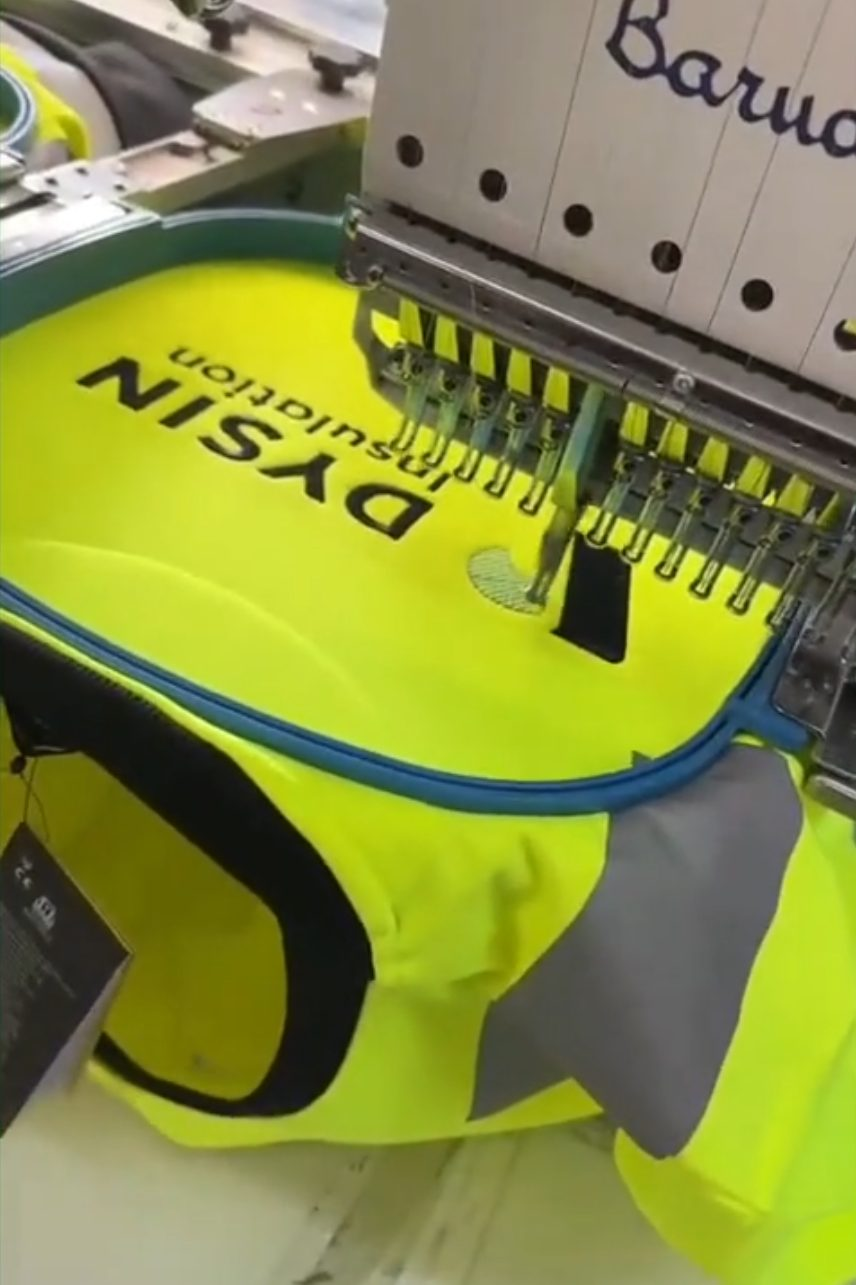
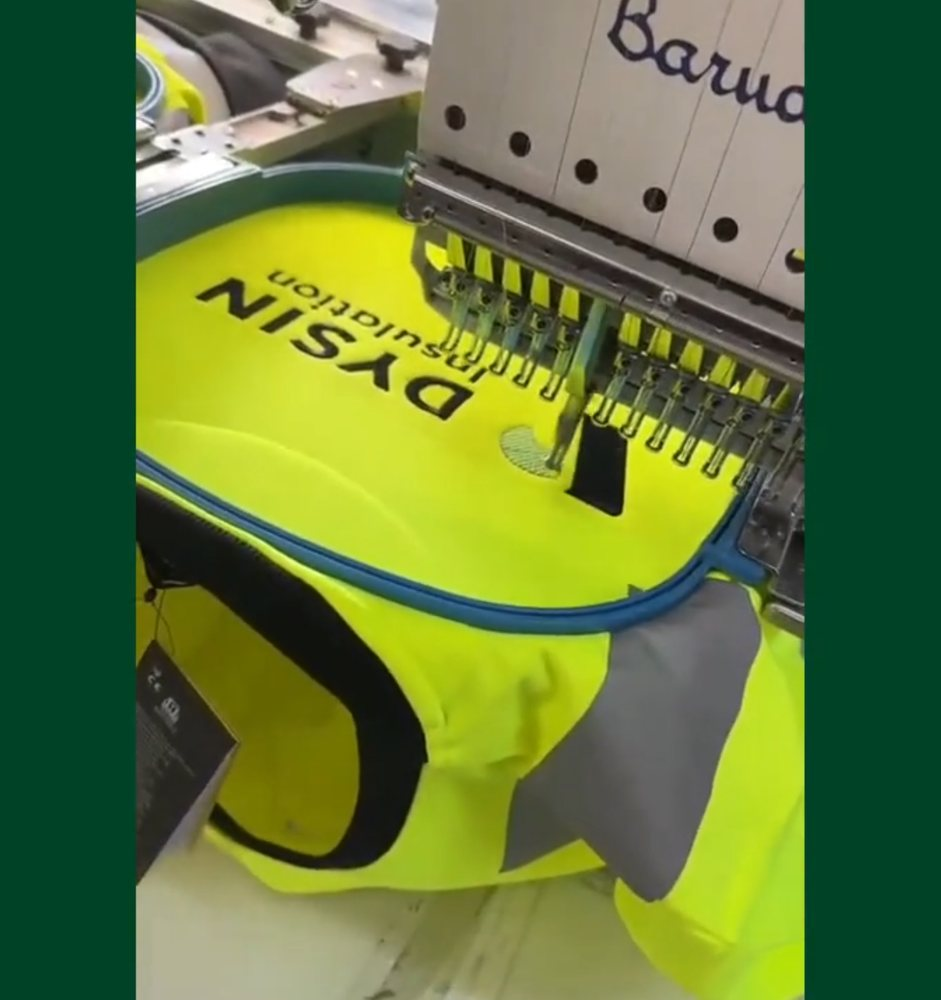
DRAFT: restore original Derby photos (with bars), uniform 4:5 contain grid

diff --git a/embroidery-derby/index.html b/embroidery-derby/index.html
@@ -325,13 +325,10 @@
     .breadcrumb { font-size:12px; color:var(--muted); margin-bottom:14px; }
     .breadcrumb a { color:var(--brg); }
     .case { padding: 56px 0; border-top:1px solid var(--border); }
-    .case-grid { display:flex; gap:14px; margin-top:22px; max-width:960px; }
-    .case-grid figure { margin:0; min-width:0; overflow:hidden; border-radius:10px; border:1px solid var(--brg-border); background:var(--brg-light); }
-    .case-grid img { width:100%; height:100%; object-fit:cover; }
-    @media (max-width: 640px) {
-      .case-grid { flex-direction:column; }
-      .case-grid figure { flex:none !important; width:100%; max-height:560px; }
-    }
+    .case-grid { display:grid; grid-template-columns:repeat(auto-fill, minmax(240px, 340px)); gap:14px; margin-top:22px; }
+    .case-grid figure { margin:0; aspect-ratio:4/5; border-radius:10px; overflow:hidden; background:#004226; border:1px solid var(--brg-border); }
+    .case-grid img { width:100%; height:100%; object-fit:contain; }
+    @media (max-width: 560px) { .case-grid { grid-template-columns:1fr 1fr; gap:10px; } }
     .case a.ext { color:var(--brg); font-weight:500; }
     .related { padding:56px 0; background:var(--off-white); }
     .footer-twr { display:flex; align-items:center; gap:8px; font-family:'Inter',sans-serif; font-size:12.5px; color:rgba(255,255,255,0.7); }
@@ -368,7 +365,7 @@
     <p class="eyebrow">Derby business</p>
     <h2 class="section-title" style="font-size:clamp(22px,3vw,30px);">Dysin Insulation Ltd: workwear and golf polos</h2>
     <p class="section-sub" style="max-width:720px;">Dysin's logo embroidered on their hi-vis workwear, plus golf polos for a company golf tournament. More on our <a href="../workwear/" style="color:var(--brg);font-weight:500;">workwear</a> page.</p>
-    <div class="case-grid" style="max-width:960px;"><figure style="flex:0.6661 1 0;aspect-ratio:856/1285;"><img src="../images/dysin-hi-vis-machine.jpg" alt="Dysin Insulation logo being embroidered on hi-vis workwear in Derby" width="856" height="1285" loading="lazy" style="object-position:center 45%;"></figure><figure style="flex:1.722 1 0;aspect-ratio:1400/813;"><img src="../images/dysin-golf-polos.jpg" alt="Embroidered golf polos for Dysin Insulation's golf tournament" width="1400" height="813" loading="lazy" style="object-position:center 45%;"></figure></div>
+    <div class="case-grid"><figure><img src="../images/dysin-hi-vis-machine.jpg" alt="Dysin Insulation logo being embroidered on hi-vis workwear in Derby" loading="lazy"></figure><figure><img src="../images/dysin-golf-polos.jpg" alt="Embroidered golf polos for Dysin Insulation's golf tournament" loading="lazy"></figure></div>
   </div>
 </section>
 <section class="case">
@@ -376,7 +373,7 @@
     <p class="eyebrow">Derby business</p>
     <h2 class="section-title" style="font-size:clamp(22px,3vw,30px);">Mend on the Move: gym equipment sweat pads</h2>
     <p class="section-sub" style="max-width:720px;">Mend on the Move repair and reupholster gym equipment. We embroidered their client's logo onto sweat pads for upholstered gym equipment. More on our <a href="../personalisation/" style="color:var(--brg);font-weight:500;">one-off and custom items</a> page.</p>
-    <div class="case-grid" style="max-width:960px;"><figure style="flex:0.5686 1 0;aspect-ratio:796/1400;"><img src="../images/mend-on-the-move-machine.jpg" alt="Logo being embroidered for Mend on the Move" width="796" height="1400" loading="lazy" style="object-position:center 45%;"></figure><figure style="flex:1.4941 1 0;aspect-ratio:1400/937;"><img src="../images/mend-on-the-move-logo.jpg" alt="Finished embroidered logo for Mend on the Move" width="1400" height="937" loading="lazy" style="object-position:center 45%;"></figure><figure style="flex:0.7539 1 0;aspect-ratio:585/776;"><img src="../images/mend-on-the-move-gym-pad.jpg" alt="Embroidered sweat pad on gym equipment" width="585" height="776" loading="lazy" style="object-position:center 45%;"></figure></div>
+    <div class="case-grid"><figure><img src="../images/mend-on-the-move-machine.jpg" alt="Logo being embroidered for Mend on the Move" loading="lazy"></figure><figure><img src="../images/mend-on-the-move-logo.jpg" alt="Finished embroidered logo for Mend on the Move" loading="lazy"></figure><figure><img src="../images/mend-on-the-move-gym-pad.jpg" alt="Embroidered sweat pad on gym equipment" loading="lazy"></figure></div>
   </div>
 </section>
 <section class="case">
@@ -384,7 +381,7 @@
     <p class="eyebrow">Derby business</p>
     <h2 class="section-title" style="font-size:clamp(22px,3vw,30px);">Moda Interiors: management team polos</h2>
     <p class="section-sub" style="max-width:720px;">Polo shirts embroidered for the Moda Interiors management team. More on our <a href="../workwear/" style="color:var(--brg);font-weight:500;">workwear</a> page.</p>
-    <div class="case-grid" style="max-width:657px;"><figure style="flex:0.5665 1 0;aspect-ratio:477/842;"><img src="../images/moda-interiors-machine.jpg" alt="Moda Interiors logo being embroidered" width="477" height="842" loading="lazy" style="object-position:center 45%;"></figure><figure style="flex:1.0418 1 0;aspect-ratio:1245/1195;"><img src="../images/moda-interiors-polo.jpg" alt="Embroidered polo shirt for Moda Interiors" width="1245" height="1195" loading="lazy" style="object-position:center 45%;"></figure></div>
+    <div class="case-grid"><figure><img src="../images/moda-interiors-machine.jpg" alt="Moda Interiors logo being embroidered" loading="lazy"></figure><figure><img src="../images/moda-interiors-polo.jpg" alt="Embroidered polo shirt for Moda Interiors" loading="lazy"></figure></div>
   </div>
 </section>
 <section class="coverage" id="areas">

diff --git a/index.html b/index.html
@@ -327,13 +327,10 @@
     .breadcrumb { font-size:12px; color:var(--muted); margin-bottom:14px; }
     .breadcrumb a { color:var(--brg); }
     .case { padding: 56px 0; border-top:1px solid var(--border); }
-    .case-grid { display:flex; gap:14px; margin-top:22px; max-width:960px; }
-    .case-grid figure { margin:0; min-width:0; overflow:hidden; border-radius:10px; border:1px solid var(--brg-border); background:var(--brg-light); }
-    .case-grid img { width:100%; height:100%; object-fit:cover; }
-    @media (max-width: 640px) {
-      .case-grid { flex-direction:column; }
-      .case-grid figure { flex:none !important; width:100%; max-height:560px; }
-    }
+    .case-grid { display:grid; grid-template-columns:repeat(auto-fill, minmax(240px, 340px)); gap:14px; margin-top:22px; }
+    .case-grid figure { margin:0; aspect-ratio:4/5; border-radius:10px; overflow:hidden; background:#004226; border:1px solid var(--brg-border); }
+    .case-grid img { width:100%; height:100%; object-fit:contain; }
+    @media (max-width: 560px) { .case-grid { grid-template-columns:1fr 1fr; gap:10px; } }
     .case a.ext { color:var(--brg); font-weight:500; }
     .related { padding:56px 0; background:var(--off-white); }
     .footer-twr { display:flex; align-items:center; gap:8px; font-family:'Inter',sans-serif; font-size:12.5px; color:rgba(255,255,255,0.7); }

diff --git a/personalisation/index.html b/personalisation/index.html
@@ -326,13 +326,10 @@
     .breadcrumb { font-size:12px; color:var(--muted); margin-bottom:14px; }
     .breadcrumb a { color:var(--brg); }
     .case { padding: 56px 0; border-top:1px solid var(--border); }
-    .case-grid { display:flex; gap:14px; margin-top:22px; max-width:960px; }
-    .case-grid figure { margin:0; min-width:0; overflow:hidden; border-radius:10px; border:1px solid var(--brg-border); background:var(--brg-light); }
-    .case-grid img { width:100%; height:100%; object-fit:cover; }
-    @media (max-width: 640px) {
-      .case-grid { flex-direction:column; }
-      .case-grid figure { flex:none !important; width:100%; max-height:560px; }
-    }
+    .case-grid { display:grid; grid-template-columns:repeat(auto-fill, minmax(240px, 340px)); gap:14px; margin-top:22px; }
+    .case-grid figure { margin:0; aspect-ratio:4/5; border-radius:10px; overflow:hidden; background:#004226; border:1px solid var(--brg-border); }
+    .case-grid img { width:100%; height:100%; object-fit:contain; }
+    @media (max-width: 560px) { .case-grid { grid-template-columns:1fr 1fr; gap:10px; } }
     .case a.ext { color:var(--brg); font-weight:500; }
     .related { padding:56px 0; background:var(--off-white); }
     .footer-twr { display:flex; align-items:center; gap:8px; font-family:'Inter',sans-serif; font-size:12.5px; color:rgba(255,255,255,0.7); }

diff --git a/schoolwear/index.html b/schoolwear/index.html
@@ -326,13 +326,10 @@
     .breadcrumb { font-size:12px; color:var(--muted); margin-bottom:14px; }
     .breadcrumb a { color:var(--brg); }
     .case { padding: 56px 0; border-top:1px solid var(--border); }
-    .case-grid { display:flex; gap:14px; margin-top:22px; max-width:960px; }
-    .case-grid figure { margin:0; min-width:0; overflow:hidden; border-radius:10px; border:1px solid var(--brg-border); background:var(--brg-light); }
-    .case-grid img { width:100%; height:100%; object-fit:cover; }
-    @media (max-width: 640px) {
-      .case-grid { flex-direction:column; }
-      .case-grid figure { flex:none !important; width:100%; max-height:560px; }
-    }
+    .case-grid { display:grid; grid-template-columns:repeat(auto-fill, minmax(240px, 340px)); gap:14px; margin-top:22px; }
+    .case-grid figure { margin:0; aspect-ratio:4/5; border-radius:10px; overflow:hidden; background:#004226; border:1px solid var(--brg-border); }
+    .case-grid img { width:100%; height:100%; object-fit:contain; }
+    @media (max-width: 560px) { .case-grid { grid-template-columns:1fr 1fr; gap:10px; } }
     .case a.ext { color:var(--brg); font-weight:500; }
     .related { padding:56px 0; background:var(--off-white); }
     .footer-twr { display:flex; align-items:center; gap:8px; font-family:'Inter',sans-serif; font-size:12.5px; color:rgba(255,255,255,0.7); }

diff --git a/sports-teamwear/index.html b/sports-teamwear/index.html
@@ -326,13 +326,10 @@
     .breadcrumb { font-size:12px; color:var(--muted); margin-bottom:14px; }
     .breadcrumb a { color:var(--brg); }
     .case { padding: 56px 0; border-top:1px solid var(--border); }
-    .case-grid { display:flex; gap:14px; margin-top:22px; max-width:960px; }
-    .case-grid figure { margin:0; min-width:0; overflow:hidden; border-radius:10px; border:1px solid var(--brg-border); background:var(--brg-light); }
-    .case-grid img { width:100%; height:100%; object-fit:cover; }
-    @media (max-width: 640px) {
-      .case-grid { flex-direction:column; }
-      .case-grid figure { flex:none !important; width:100%; max-height:560px; }
-    }
+    .case-grid { display:grid; grid-template-columns:repeat(auto-fill, minmax(240px, 340px)); gap:14px; margin-top:22px; }
+    .case-grid figure { margin:0; aspect-ratio:4/5; border-radius:10px; overflow:hidden; background:#004226; border:1px solid var(--brg-border); }
+    .case-grid img { width:100%; height:100%; object-fit:contain; }
+    @media (max-width: 560px) { .case-grid { grid-template-columns:1fr 1fr; gap:10px; } }
     .case a.ext { color:var(--brg); font-weight:500; }
     .related { padding:56px 0; background:var(--off-white); }
     .footer-twr { display:flex; align-items:center; gap:8px; font-family:'Inter',sans-serif; font-size:12.5px; color:rgba(255,255,255,0.7); }

diff --git a/workwear/index.html b/workwear/index.html
@@ -326,13 +326,10 @@
     .breadcrumb { font-size:12px; color:var(--muted); margin-bottom:14px; }
     .breadcrumb a { color:var(--brg); }
     .case { padding: 56px 0; border-top:1px solid var(--border); }
-    .case-grid { display:flex; gap:14px; margin-top:22px; max-width:960px; }
-    .case-grid figure { margin:0; min-width:0; overflow:hidden; border-radius:10px; border:1px solid var(--brg-border); background:var(--brg-light); }
-    .case-grid img { width:100%; height:100%; object-fit:cover; }
-    @media (max-width: 640px) {
-      .case-grid { flex-direction:column; }
-      .case-grid figure { flex:none !important; width:100%; max-height:560px; }
-    }
+    .case-grid { display:grid; grid-template-columns:repeat(auto-fill, minmax(240px, 340px)); gap:14px; margin-top:22px; }
+    .case-grid figure { margin:0; aspect-ratio:4/5; border-radius:10px; overflow:hidden; background:#004226; border:1px solid var(--brg-border); }
+    .case-grid img { width:100%; height:100%; object-fit:contain; }
+    @media (max-width: 560px) { .case-grid { grid-template-columns:1fr 1fr; gap:10px; } }
     .case a.ext { color:var(--brg); font-weight:500; }
     .related { padding:56px 0; background:var(--off-white); }
     .footer-twr { display:flex; align-items:center; gap:8px; font-family:'Inter',sans-serif; font-size:12.5px; color:rgba(255,255,255,0.7); }
